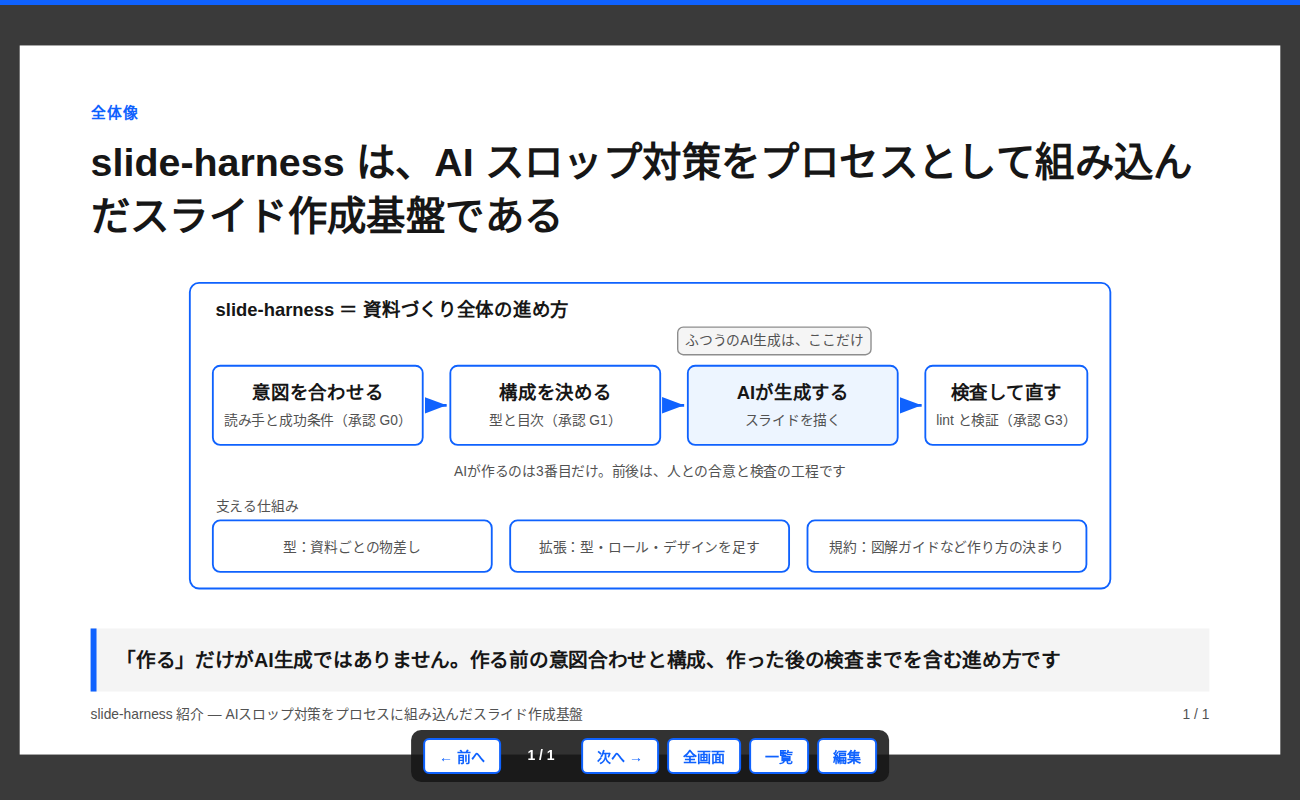
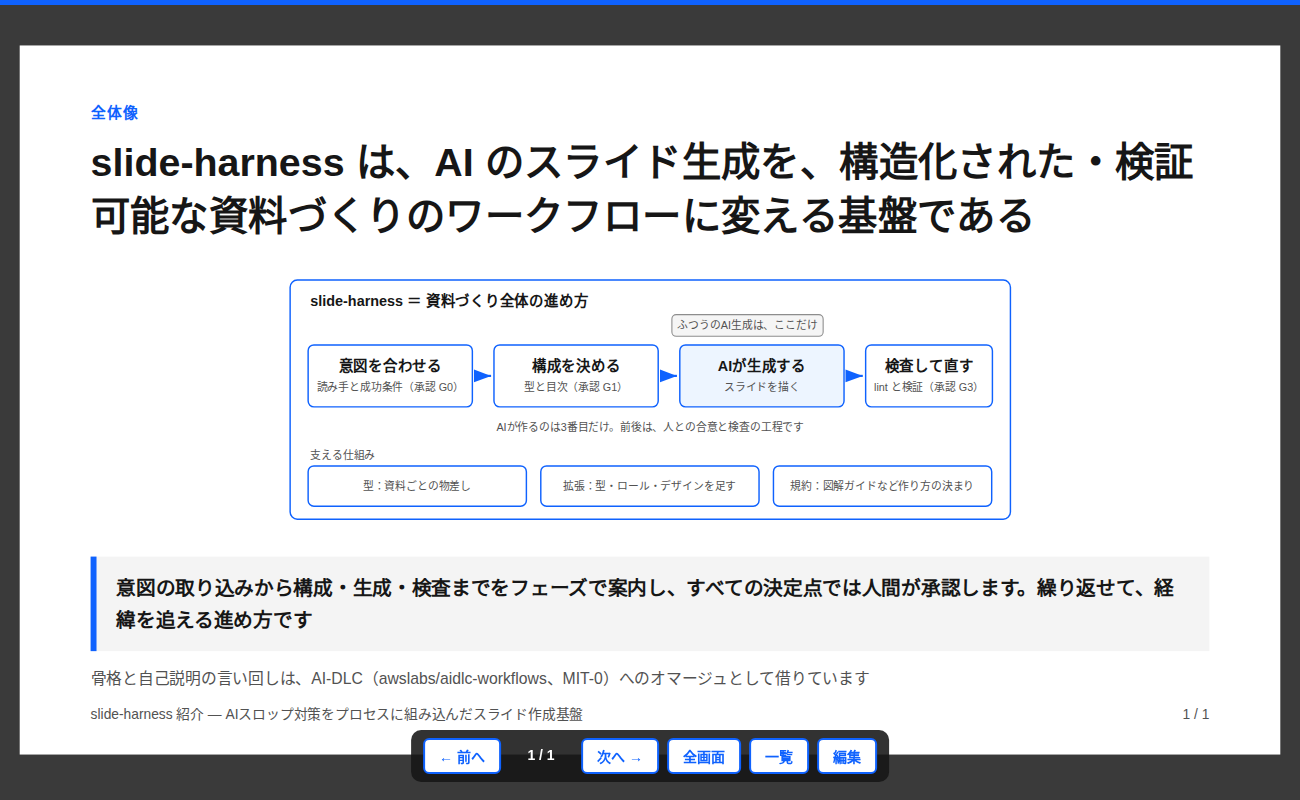
1枚目にAI-DLCの自己説明の骨格を流用（オマージュを注記に明示、対応表をoutlineに記録）。再lintパス

Changed region(s): [[0.0615, 0.3438, 0.9231, 0.875], [0.0615, 0.1562, 0.9231, 0.3125], [0.8308, 0.3438, 0.8615, 0.375]]

diff --git a/works/slide-harness-intro/slides.html b/works/slide-harness-intro/slides.html
@@ -68,9 +68,9 @@ svg text{font-family:var(--font)}
   <!-- スライドは section.slide を繰り返す。図は .fig の中にインライン SVG で実際に描く -->
     <section class="slide">
     <div class="kicker">全体像</div>
-    <h1>slide-harness は、AI スロップ対策をプロセスとして組み込んだスライド作成基盤である</h1>
+    <h1>slide-harness は、AI のスライド生成を、構造化された・検証可能な資料づくりのワークフローに変える基盤である</h1>
     <div class="fig">
-      <svg viewBox="0 0 1100 360" role="img" aria-label="slide-harness は、AI スロップ対策をプロセスとして組み込んだスライド作成基盤である">
+      <svg viewBox="0 0 1100 360" role="img" aria-label="slide-harness は、AI のスライド生成を、構造化された・検証可能な資料づくりのワークフローに変える基盤である">
         <defs>
           <marker id="ah" markerWidth="10" markerHeight="10" refX="8" refY="3" orient="auto"><path d="M0,0 L8,3 L0,6 Z" fill="#333333"/></marker>
           <marker id="ahk" markerWidth="10" markerHeight="10" refX="8" refY="3" orient="auto"><path d="M0,0 L8,3 L0,6 Z" fill="#0F62FE"/></marker>
@@ -104,7 +104,8 @@ svg text{font-family:var(--font)}
 <text class="sub" x="872" y="306" text-anchor="middle">規約：図解ガイドなど作り方の決まり</text>
       </svg>
     </div>
-    <div class="takeaway">「作る」だけがAI生成ではありません。作る前の意図合わせと構成、作った後の検査までを含む進め方です</div>
+    <div class="takeaway">意図の取り込みから構成・生成・検査までをフェーズで案内し、すべての決定点では人間が承認します。繰り返せて、経緯を追える進め方です</div>
+    <div class="note">骨格と自己説明の言い回しは、AI-DLC（awslabs/aidlc-workflows、MIT-0）へのオマージュとして借りています</div>
     
     <div class="deckname">slide-harness 紹介 — AIスロップ対策をプロセスに組み込んだスライド作成基盤</div>
     <div class="pageno"></div>

diff --git a/works/slide-harness-intro/slides.md b/works/slide-harness-intro/slides.md
@@ -2,10 +2,11 @@
 
 v3（2026-11-16）。主型⑥説明・教育、副型②ピッチ／招請。標準テンプレート（Carbon）でレンダリングする。旧版（試走1号 v2）は supersede。
 
-## 1. slide-harness は、AI スロップ対策をプロセスとして組み込んだスライド作成基盤である
+## 1. slide-harness は、AI のスライド生成を、構造化された・検証可能な資料づくりのワークフローに変える基盤である
 - 図：全体地図＝資料づくり全体の進め方（意図を合わせる→構成を決める→AIが生成する→検査して直す。生成の箱に「ふつうのAI生成は、ここだけ」のタグ。下段に支える仕組み：型／拡張／規約）
-- 要点：「作る」だけがAI生成ではない。作る前の意図合わせと構成、作った後の検査までを含む進め方である
-- 変更記録（2026-11-16、表現の変更）：初版の地図は部品名の列挙で「何者か」を説明しておらず、要点の対比も分かりにくいとの指摘を受け、図と要点を作り直した
+- 要点：意図の取り込みから構成・生成・検査までをフェーズで案内し、すべての決定点では人間が承認する。繰り返せて、経緯を追える進め方である
+- 注記：骨格と自己説明の言い回しは、AI-DLC（awslabs/aidlc-workflows、MIT-0）へのオマージュとして借りている
+- 変更記録（2026-11-16、表現の変更）：初版の地図は部品名の列挙で「何者か」を説明しておらず、要点の対比も分かりにくいとの指摘を受け、図と要点を作り直した。その後、AI-DLC の自己説明の骨格を借りる形にタイトルと要点を寄せた（流用対応は outline の追記参照）
 
 ## 2. 進み方は4フェーズと3つの承認ゲートで、各フェーズに成果物が残る
 - 図：流れ図（フェーズ0意図→1構成→2生成→3検証、ゲート G0／G1／G3、成果物）

diff --git a/works/slide-harness-intro/lint-report-v3.md b/works/slide-harness-intro/lint-report-v3.md
@@ -22,6 +22,9 @@ G2 パス（全層）。フェーズ3（検証）へ。
 - 1枚目：下部の注記テキストが枠からはみ出していたため2行に分割（視覚 lint の指摘として処理）。再 lint パス
 - 変更はこの2枚のみ。他のスライドは不変
 
+## 追記4（2026-11-16、表現の変更に伴う再 lint）
+- 1枚目：タイトルと要点を AI-DLC の自己説明の骨格を借りる形に変更し、オマージュの注記を追加。流用の対応表は outline.md の追記に記録。再 lint パス（主張の骨格は不変のため表現の変更として処理）
+
 ## 追記3（2026-11-16、表現の変更に伴う再 lint）
 - 1枚目：図（全体地図）と要点を作り直し。「何者か」を工程全体の枠＋生成は1工程という形で示し、対比は平易な文に置き換えた。再 lint パス
 
